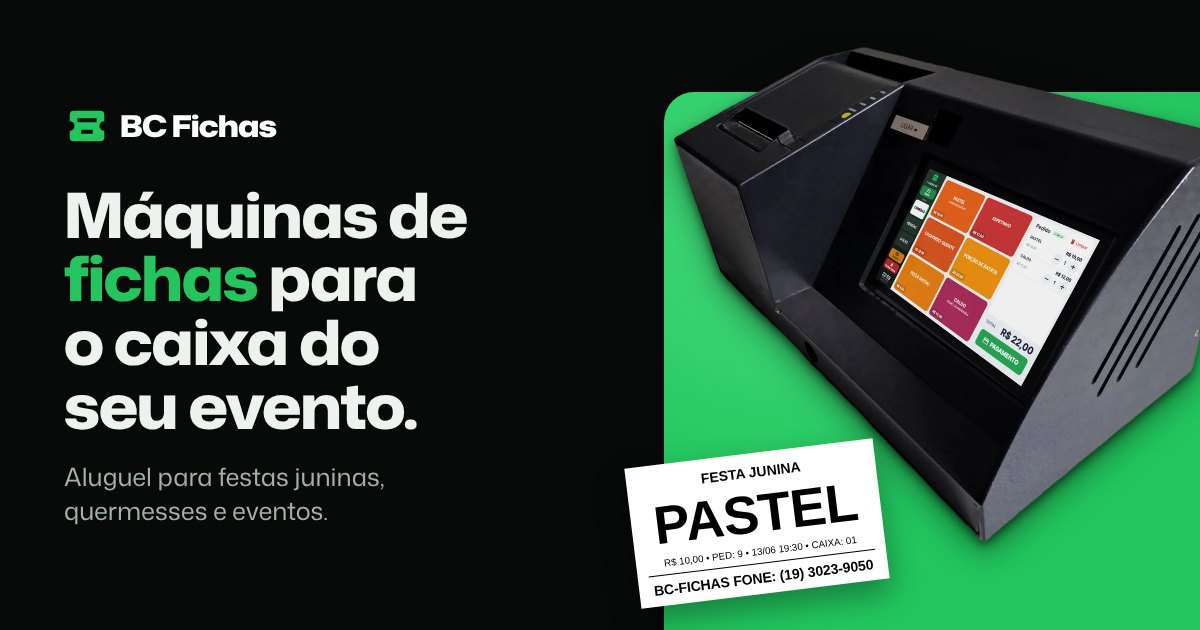
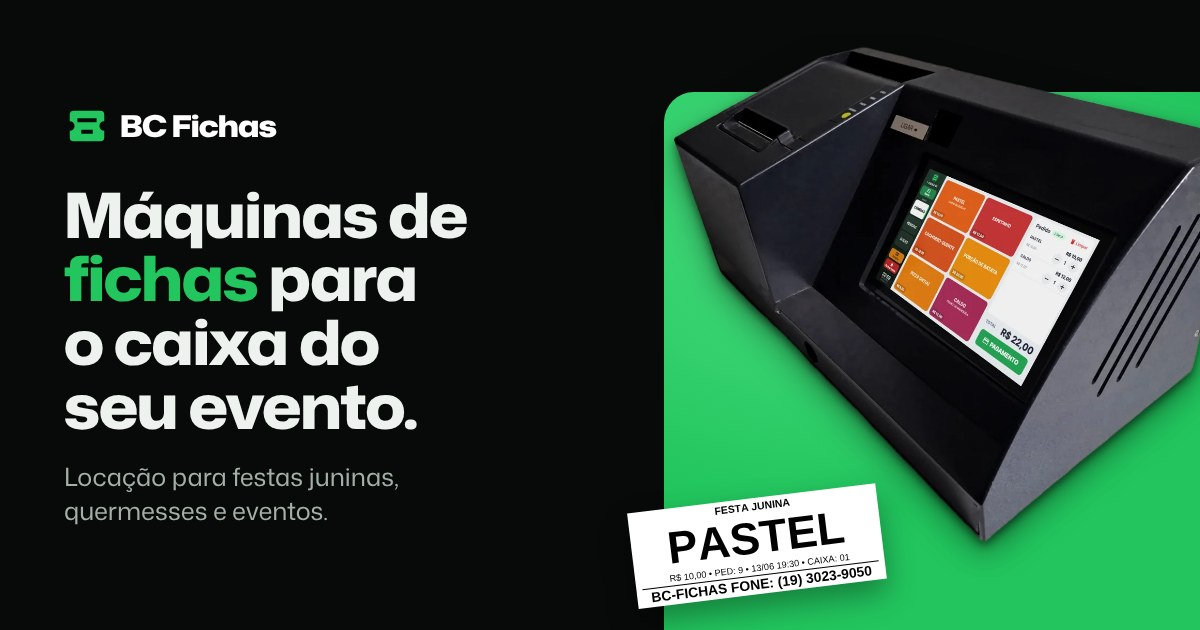
"Locação" nos títulos, tira de fichas inteira e preparo para a indexação
Pedidos do responsável (23/11/2026).

Textos
- "Locação" no título da página, na abertura, nas dúvidas, no rodapé e
  na imagem de compartilhamento. O verbo "alugar" continua nas frases
  e "aluguel" fica na descrição lida pelo Google.

Como usar no evento
- As 3 fichas do passo "As fichas saem na hora" aparecem inteiras
  dentro do quadro (antes a tira saía cortada).

Indexação
- Título com a busca principal na frente, descrição com "locação" e
  "aluguel", liberação de imagem grande nos resultados.
- Dados estruturados: página, serviço (com nome alternativo), empresa
  com telefone, endereço e horário, e dúvidas.
- Sitemap com as imagens principais; texto alternativo na imagem de
  compartilhamento.
- docs/PUBLICAR-NA-VERCEL.md, item 4: o que fazer no Google depois que
  o endereço oficial abrir.

Testes: 140 verificações, Lighthouse SEO 100 (docs/TESTES.md).

Claude-Session: https://claude.ai/code/session_01Jb1gVohqprNRxVwLM3BG3P

Changed region(s): [[0.5242, 0.6937, 0.74, 0.9651], [0.0617, 0.7238, 0.3392, 0.7841]]

diff --git a/site/index.html b/site/index.html
@@ -3,8 +3,9 @@
 <head>
 <meta charset="utf-8">
 <meta name="viewport" content="width=device-width, initial-scale=1, viewport-fit=cover">
-<title>BC Fichas | Aluguel de máquinas de fichas para festas e eventos</title>
-<meta name="description" content="Aluguel de máquinas de fichas para festas juninas, quermesses e eventos. O caixa registra a venda e imprime as fichas na hora, com o nome do seu evento. Solicite o orçamento pelo WhatsApp.">
+<title>Locação de máquinas de fichas para festas e eventos | BC Fichas</title>
+<meta name="description" content="Locação de máquinas de fichas para festas juninas, quermesses e eventos. Aluguel com a máquina já programada e fichas impressas na hora. Orçamento pelo WhatsApp.">
+<meta name="robots" content="index, follow, max-image-preview:large, max-snippet:-1">
 <link rel="canonical" href="https://bcfichas.balancass.com/">
 <meta name="theme-color" content="#070A08">
 <meta name="format-detection" content="telephone=no">
@@ -12,12 +13,14 @@
 <meta property="og:type" content="website">
 <meta property="og:locale" content="pt_BR">
 <meta property="og:site_name" content="BC Fichas">
-<meta property="og:title" content="BC Fichas | Máquinas de fichas para o caixa do seu evento">
-<meta property="og:description" content="Aluguel para festas juninas, quermesses e eventos. As fichas saem impressas na hora, com o nome do seu evento.">
+<meta property="og:title" content="BC Fichas | Locação de máquinas de fichas para eventos">
+<meta property="og:description" content="Locação para festas juninas, quermesses e eventos. As fichas saem impressas na hora, com o nome do seu evento.">
 <meta property="og:url" content="https://bcfichas.balancass.com/">
-<meta property="og:image" content="https://bcfichas.balancass.com/img/compartilhar.jpg">
+<meta property="og:image" content="https://bcfichas.balancass.com/img/compartilhar.jpg?v=2">
+<meta property="og:image:type" content="image/jpeg">
 <meta property="og:image:width" content="1200">
 <meta property="og:image:height" content="630">
+<meta property="og:image:alt" content="Máquina de fichas BC Fichas com a tela de venda e uma ficha impressa.">
 <meta name="twitter:card" content="summary_large_image">
 
 <link rel="icon" href="favicon.ico" sizes="32x32">
@@ -29,7 +32,7 @@
 <link rel="preload" as="image" type="image/webp" fetchpriority="high"
       imagesrcset="img/maquina/maquina-frente-520.webp?v=2 520w, img/maquina/maquina-frente-800.webp?v=2 800w, img/maquina/maquina-frente-1200.webp?v=2 1200w"
       imagesizes="(min-width: 1000px) 50vw, 92vw">
-<link rel="stylesheet" href="css/site.css?v=7">
+<link rel="stylesheet" href="css/site.css?v=8">
 <noscript><style>:root { --f-ficha: "Ficha", Arial, "Liberation Sans", "Helvetica Neue", Helvetica, sans-serif; }</style></noscript>
 
 <script type="application/ld+json">
@@ -41,37 +44,71 @@
       "@id": "https://bcfichas.balancass.com/#site",
       "name": "BC Fichas",
       "url": "https://bcfichas.balancass.com/",
-      "inLanguage": "pt-BR"
+      "description": "Locação de máquinas de fichas para festas juninas, quermesses e eventos.",
+      "inLanguage": "pt-BR",
+      "publisher": { "@id": "https://bcfichas.balancass.com/#empresa" }
+    },
+    {
+      "@type": "WebPage",
+      "@id": "https://bcfichas.balancass.com/#pagina",
+      "url": "https://bcfichas.balancass.com/",
+      "name": "Locação de máquinas de fichas para festas e eventos | BC Fichas",
+      "description": "Locação de máquinas de fichas para festas juninas, quermesses e eventos. Aluguel com a máquina já programada e fichas impressas na hora. Orçamento pelo WhatsApp.",
+      "inLanguage": "pt-BR",
+      "isPartOf": { "@id": "https://bcfichas.balancass.com/#site" },
+      "about": { "@id": "https://bcfichas.balancass.com/#servico" },
+      "primaryImageOfPage": {
+        "@type": "ImageObject",
+        "url": "https://bcfichas.balancass.com/img/compartilhar.jpg?v=2",
+        "width": 1200,
+        "height": 630
+      },
+      "dateModified": "2026-11-23"
     },
     {
       "@type": "Service",
       "@id": "https://bcfichas.balancass.com/#servico",
-      "name": "BC Fichas: aluguel de máquinas de fichas para eventos",
-      "serviceType": "Aluguel de máquinas de fichas",
-      "description": "Aluguel de máquinas de fichas para festas juninas, quermesses e eventos. A máquina vai programada com os produtos, os preços e o logotipo do evento. O treinamento é dado na empresa e as bobinas são consignadas.",
+      "name": "BC Fichas: locação de máquinas de fichas para eventos",
+      "alternateName": "Aluguel de máquinas de fichas para festas e eventos",
+      "serviceType": "Locação de máquinas de fichas",
+      "category": "Locação de equipamentos para eventos",
+      "description": "Locação de máquinas de fichas para festas juninas, quermesses e eventos. A máquina vai programada com os produtos, os preços e o logotipo do evento. O treinamento é dado na empresa e as bobinas são consignadas.",
       "url": "https://bcfichas.balancass.com/",
-      "image": "https://bcfichas.balancass.com/img/compartilhar.jpg",
-      "provider": {
-        "@type": "LocalBusiness",
-        "name": "Balanças.com — Automação Comercial",
-        "url": "https://balancass.com/",
-        "telephone": "+55-19-3023-9050",
-        "address": {
-          "@type": "PostalAddress",
-          "streetAddress": "Rua 13, 650 – Boa Morte",
-          "addressLocality": "Rio Claro",
-          "addressRegion": "SP",
-          "postalCode": "13500-120",
-          "addressCountry": "BR"
-        }
-      }
+      "image": "https://bcfichas.balancass.com/img/compartilhar.jpg?v=2",
+      "brand": { "@type": "Brand", "name": "BC Fichas" },
+      "provider": { "@id": "https://bcfichas.balancass.com/#empresa" }
+    },
+    {
+      "@type": "LocalBusiness",
+      "@id": "https://bcfichas.balancass.com/#empresa",
+      "name": "Balanças.com — Automação Comercial",
+      "legalName": "Fabio de Godoy Lima Ltda",
+      "taxID": "12.403.843/0001-18",
+      "url": "https://balancass.com/",
+      "image": "https://bcfichas.balancass.com/img/compartilhar.jpg?v=2",
+      "telephone": "+55-19-3023-9050",
+      "address": {
+        "@type": "PostalAddress",
+        "streetAddress": "Rua 13, 650 – Boa Morte",
+        "addressLocality": "Rio Claro",
+        "addressRegion": "SP",
+        "postalCode": "13500-120",
+        "addressCountry": "BR"
+      },
+      "openingHoursSpecification": [
+        { "@type": "OpeningHoursSpecification", "dayOfWeek": ["Monday", "Tuesday", "Wednesday", "Thursday", "Friday"], "opens": "08:00", "closes": "11:00" },
+        { "@type": "OpeningHoursSpecification", "dayOfWeek": ["Monday", "Tuesday", "Wednesday", "Thursday", "Friday"], "opens": "13:00", "closes": "18:00" },
+        { "@type": "OpeningHoursSpecification", "dayOfWeek": "Saturday", "opens": "08:00", "closes": "12:00" }
+      ]
     },
     {
       "@type": "FAQPage",
+      "@id": "https://bcfichas.balancass.com/#duvidas",
+      "isPartOf": { "@id": "https://bcfichas.balancass.com/#pagina" },
       "mainEntity": [
         {
           "@type": "Question",
-          "name": "Como funciona o aluguel?",
+          "name": "Como funciona a locação?",
           "acceptedAnswer": { "@type": "Answer", "text": "Você informa a cidade, a data e como é o evento, e recebe a proposta pelo WhatsApp. Com o orçamento aprovado, envia o cardápio com os preços, o logotipo e a frase do rodapé com pelo menos uma semana de antecedência. A máquina já vai programada." }
         },
         {
@@ -174,7 +211,7 @@
 <section class="heroi" id="inicio" aria-labelledby="t-inicio">
   <div class="miolo heroi__grade">
     <div class="heroi__texto">
-      <p class="rotulo">Aluguel para festas e eventos</p>
+      <p class="rotulo">Locação para festas e eventos</p>
       <h1 id="t-inicio">Máquinas de <span class="realce">fichas</span> para o caixa do seu evento.</h1>
       <p class="lide">Organize as vendas do evento com fichas impressas na hora e relatórios por caixa.</p>
       <div class="acoes">
@@ -658,16 +695,16 @@
   <div class="miolo duvidas">
     <header class="cabeca">
       <p class="rotulo">Dúvidas</p>
-      <h2 id="t-duvidas">Dúvidas sobre o aluguel.</h2>
+      <h2 id="t-duvidas">Dúvidas sobre a locação.</h2>
       <p class="lide">Não achou a resposta? <a data-zap href="https://wa.me/551930239050?text=Ol%C3%A1!%20Vim%20pelo%20site%20do%20BC%20Fichas%20e%20tenho%20uma%20d%C3%BAvida." data-zap-texto="Olá! Vim pelo site do BC Fichas e tenho uma dúvida." target="_blank" rel="noopener">Pergunte pelo WhatsApp</a>.</p>
     </header>
 
     <div class="duvidas__grupos">
       <div class="duvidas__grupo">
-        <h3>Aluguel</h3>
+        <h3>Locação</h3>
         <div class="duvidas__lista">
           <details class="duvida">
-            <summary><h4>Como funciona o aluguel?</h4><svg class="i" aria-hidden="true"><use href="#i-mais"/></svg></summary>
+            <summary><h4>Como funciona a locação?</h4><svg class="i" aria-hidden="true"><use href="#i-mais"/></svg></summary>
             <p>Você informa a cidade, a data e como é o evento, e recebe a proposta pelo WhatsApp. Com o orçamento aprovado, envia o cardápio com os preços, o logotipo e a frase do rodapé com pelo menos uma semana de antecedência. A máquina já vai programada.</p>
           </details>
           <details class="duvida">
@@ -842,7 +879,7 @@
         <svg class="marca__simbolo" aria-hidden="true"><use href="#i-ficha"/></svg>
         <span class="marca__nome">BC Fichas</span>
       </a>
-      <p>Aluguel de máquinas de fichas para festas juninas, quermesses e eventos.</p>
+      <p>Locação de máquinas de fichas para festas juninas, quermesses e eventos.</p>
     </div>
     <nav class="rodape__nav" aria-label="Rodapé">
       <a href="#como-alugar">Como alugar</a>

diff --git a/site/css/site.css b/site/css/site.css
@@ -402,12 +402,8 @@ p { text-wrap: pretty; }
 }
 .passo__img--tela img { width: 88%; border-radius: 6px; box-shadow: 0 14px 34px rgba(0, 0, 0, 0.55), 0 0 0 1px rgba(255, 255, 255, 0.06); transition: scale .3s ease; }
 a.passo__img:hover img { scale: 1.03; }
-.passo__img--tira::after {
-  content: ""; position: absolute; inset: auto 0 0; height: 34%;
-  background: linear-gradient(to bottom, rgba(10, 15, 12, 0), #0a0f0c 92%);
-}
-.passo__img--tira { place-items: start center; }
-.tira { width: 56%; margin-top: -10%; rotate: -2.5deg; filter: drop-shadow(0 18px 30px rgba(0, 0, 0, 0.5)); }
+/* a tira de fichas aparece inteira dentro do quadro, sem corte */
+.tira { width: 47%; rotate: -2.5deg; filter: drop-shadow(0 12px 22px rgba(0, 0, 0, 0.5)); }
 .tira .ficha + .ficha { border-top: 2px dashed #9aa39c; }
 .passo__texto {
   display: grid; grid-template-columns: auto minmax(0, 1fr); gap: 10px 12px; align-items: center; align-content: start;

diff --git a/site/404.html b/site/404.html
@@ -9,7 +9,7 @@
 <link rel="icon" href="/favicon.ico" sizes="32x32">
 <link rel="icon" href="/img/icone.svg" type="image/svg+xml">
 <link rel="preload" href="/fonts/mona-sans-latin.woff2" as="font" type="font/woff2" crossorigin>
-<link rel="stylesheet" href="/css/site.css?v=7">
+<link rel="stylesheet" href="/css/site.css?v=8">
 <style>
   .perdida { min-height: 100vh; min-height: 100svh; display: grid; place-items: center; padding-block: 48px; }
   .perdida__c { display: grid; gap: 28px; justify-items: center; text-align: center; }

diff --git a/docs/PENDENCIAS.md b/docs/PENDENCIAS.md
@@ -1,6 +1,6 @@
 # Pendências
 
-Situação em 22/11/2026, depois da segunda avaliação do site (`BC_Fichas_Reavaliacao_e_Guia_2026-11-22.md`). O briefing usado foi o texto do pedido; além dele chegaram as fotos e as duas avaliações.
+Situação em 23/11/2026, depois da segunda avaliação do site (`BC_Fichas_Reavaliacao_e_Guia_2026-11-22.md`). O briefing usado foi o texto do pedido; além dele chegaram as fotos e as duas avaliações.
 
 ## 1. Para responder
 
@@ -14,8 +14,6 @@ Perguntas que a avaliação levantou e que só a empresa pode responder. Sem res
 | 4 | **Painel no celular e maquininha integrada** | Ficaram de fora (versões "Rede" e "Cartão" do sistema). | Já são oferecidos no aluguel? Se sim, entram no site. |
 | 5 | **Frase de apoio da abertura** | "Organize as vendas do evento com fichas impressas na hora e relatórios por caixa." (sugestão da avaliação de 22/11) | Em 20/11 o responsável pediu para tirar a frase que havia nesse lugar. Esta é outra frase, mais curta; se preferir a abertura sem frase, é só avisar. |
 
-| 6 | **"Aluguel" ou "locação"** | O site fala em "aluguel" (decisão de 19/11). | Em 22/11 o responsável sugeriu "alocação" para soar mais profissional. "Alocação" quer dizer outra coisa (distribuir, destinar recursos); o termo formal para alugar equipamento é **"locação"**. Falta decidir entre manter "aluguel" ou passar para "locação" nos títulos. |
-
 A avaliação também pediu respostas sobre **retirada, entrega e devolução** e sobre **como o período do aluguel é calculado**. O responsável já decidiu, em 19/11, não publicar isso ("depende do lugar; na dúvida não precisa pôr"), então o site continua só com "consulte a disponibilidade". Se mudar de ideia, cabem em duas dúvidas curtas.
 
 ## 2. Publicação
@@ -23,9 +21,9 @@ A avaliação também pediu respostas sobre **retirada, entrega e devolução** 
 - [ ] **Criar o CNAME de `bcfichas.balancass.com`.** Conferido em 22/11: o nome não existe no DNS (NXDOMAIN). A zona `balancass.com` está na HostGator, então o registro é criado no cPanel de lá (Editor de Zona), com o valor que a Vercel mostra em Settings → Domains. Passo a passo: `docs/PUBLICAR-NA-VERCEL.md`, item 2. Enquanto isso o site funciona em `bcfichas.vercel.app`, mas a imagem de compartilhamento e o endereço indicado ao Google apontam para o oficial.
 - [ ] **Imprimir uma ficha de teste** com um nome de 40 caracteres e um rodapé de duas linhas e comparar com a prévia do site (a prévia segue o código do sistema, mas não foi comparada com o papel).
 - [ ] Testar num celular real: carrossel das fichas, escolha do modelo, formulário e abertura do WhatsApp.
+- [ ] **Indexação no Google**, depois que o endereço oficial abrir: redirecionar o endereço provisório para o oficial, verificar o site no Google Search Console, enviar o `sitemap.xml` e pedir a indexação. Passo a passo: `docs/PUBLICAR-NA-VERCEL.md`, item 4. O que dependia do site já está feito (título, descrição, dados da empresa, sitemap com imagens).
 - [ ] Com o endereço oficial no ar, enviar o link numa conversa de WhatsApp e ver se a imagem aparece.
-- [ ] Enviar o `sitemap.xml` no Google Search Console.
-- [ ] **Site da Balanças.com:** a seção do BC Fichas ainda diz "Locação por diária" e "Manual e bobinas inclusos", e os links apontam para `bcfichas.com.br` (fora do ar). Vale alinhar com o que foi confirmado aqui.
+- [ ] **Site da Balanças.com:** a seção do BC Fichas ainda diz "Locação por diária" e "Manual e bobinas inclusos", e os links apontam para `bcfichas.com.br` (fora do ar). Trocar o link para `https://bcfichas.balancass.com/` é o que mais ajuda o Google a achar o site novo; vale também alinhar os textos com o que foi confirmado aqui.
 
 ## 3. Depende de material novo
 
@@ -42,7 +40,7 @@ Itens da avaliação de 22/11 que não foram feitos porque precisam de material 
 
 | Assunto | Resposta | Onde aparece |
 |---|---|---|
-| Nome do serviço | "Aluguel", sem dizer "por diária" | Título da página, abertura, dúvidas, rodapé e imagem de compartilhamento |
+| Nome do serviço | "Locação" nos títulos, sem dizer "por diária" (decisão de 23/11; antes era "aluguel"). O verbo "alugar" continua nas frases ("Como alugar", "quem aluga") e "aluguel" aparece na descrição que o Google lê, para o site ser achado nas duas buscas. "Alocação" não foi usada: quer dizer outra coisa. | Título da página, abertura, dúvidas, rodapé e imagem de compartilhamento |
 | Entrega e retirada | Depende do lugar; não entra no site | Só "consulte a disponibilidade", nas dúvidas |
 | Bobinas | Consignadas: o cliente só paga as que usar | Abertura ("você paga só as que usar") e "O que está incluído?" |
 | Treinamento | Dado na empresa | Abertura e dúvidas |
@@ -59,6 +57,7 @@ Itens da avaliação de 22/11 que não foram feitos porque precisam de material 
 | Textos retirados em 20/11 | Frase de apoio da abertura (ver item 5 acima), estimativa de público, "o teclado aparece na tela", aviso sobre as fotos e a dúvida sobre devolução de fichas | Não aparecem mais |
 | Fotos retiradas em 20/11 | Impressora aberta e saída das fichas | Não aparecem mais |
 | Contato direto | Falar no WhatsApp sem passar pelo formulário | Cabeçalho, abertura, barra do celular, menu e seção de orçamento |
+| Tira de fichas do passo 3 | Mostrar inteira, sem corte (pedido de 23/11) | "Como usar no evento", passo "As fichas saem na hora" |
 | Retirado em 22/11 | Campo "Tipo de evento" do formulário e a linha de WhatsApp da lista de contatos (ficava repetida: já existe o botão "Falar no WhatsApp" logo acima; embaixo fica só o telefone) | Não aparecem mais |
 | Logotipo | Manter o símbolo da ficha com o nome | Cabeçalho, rodapé e ícones |
 | Horário e endereço | Os da Balanças.com valem | Seção de orçamento |

diff --git a/docs/PUBLICAR-NA-VERCEL.md b/docs/PUBLICAR-NA-VERCEL.md
@@ -38,9 +38,33 @@ Se o DNS do domínio não estiver na HostGator (Cloudflare, Registro.br), o regi
 - [ ] Na seção das fichas, escreva o nome de um evento: as fichas mudam.
 - [ ] Um endereço que não existe (ex.: `/teste`) mostra a página **"Esta página não existe"**.
 - [ ] Mande o link do site para alguém no WhatsApp: aparece a imagem com a máquina e o título.
-- [ ] (Recomendado) **Google Search Console** → adicionar `bcfichas.balancass.com` → *Sitemaps* → enviar `sitemap.xml`.
+- [ ] Siga o item 4, abaixo, para o site aparecer no Google.
 
-## 4. Atualizar o site
+## 4. Aparecer no Google (indexação)
+
+**O que já está pronto no site:** título e descrição com "locação" e "aluguel" (as duas buscas), o endereço oficial indicado ao Google, os dados da empresa (telefone, endereço e horário) em formato que o Google lê, o `sitemap.xml` com a página e as imagens principais, o `robots.txt` liberando tudo, imagens com descrição e página leve no celular.
+
+**O que só dá para fazer depois que `bcfichas.balancass.com` abrir** (depende das suas contas):
+
+1. **Mandar o endereço provisório para o oficial.** Enquanto os dois abrirem o mesmo site, o Google pode ficar em dúvida sobre qual mostrar. Com o oficial funcionando, `bcfichas.vercel.app` deve redirecionar para ele. Há dois jeitos: avisar para ativarmos o redirecionamento no `vercel.json`, ou, na Vercel, **Settings → Domains → Edit** em `bcfichas.vercel.app` → **Redirect to** `bcfichas.balancass.com`. Não faça isso antes de o oficial abrir, senão o site sai do ar.
+2. **Google Search Console** (`search.google.com/search-console`):
+   - se o `balancass.com` já está lá como propriedade de **domínio**, o `bcfichas.balancass.com` já está incluído; pule para o envio do sitemap;
+   - se não, **Adicionar propriedade → Prefixo do URL →** `https://bcfichas.balancass.com/`. Na verificação, escolha **Tag HTML**: o Google mostra uma linha `<meta name="google-site-verification" ...>`. Envie essa linha para ser colocada no site (ou cole no `<head>` do `site/index.html`) e clique em **Verificar**;
+   - em **Sitemaps**, envie `sitemap.xml`;
+   - em **Inspeção de URL**, cole `https://bcfichas.balancass.com/` e clique em **Solicitar indexação**.
+3. **Link no site da Balanças.com.** É o que mais acelera: o Google já conhece o `balancass.com`, e um link de lá leva o robô até o site novo. Hoje a seção do BC Fichas de lá aponta para `bcfichas.com.br`, que está fora do ar; troque para `https://bcfichas.balancass.com/`.
+4. **Perfil da Empresa no Google** (o cartão da Balanças.com no Google Maps), se houver: acrescente "Locação de máquinas de fichas" nos serviços, com o link do site.
+5. (Opcional) **Bing Webmaster Tools** (`bing.com/webmasters`): dá para importar tudo do Search Console em um clique.
+
+**Para conferir depois:**
+
+- alguns dias depois, pesquise `site:bcfichas.balancass.com` no Google: a página deve aparecer;
+- em `search.google.com/test/rich-results`, cole o endereço: os dados da empresa e do serviço devem aparecer sem erro;
+- mande o link numa conversa de WhatsApp: aparece a imagem com a máquina e "Locação para festas juninas, quermesses e eventos".
+
+A entrada no Google costuma levar de alguns dias a algumas semanas. A posição nas buscas depende da concorrência e do tempo de vida do site; não há como garantir primeiro lugar.
+
+## 5. Atualizar o site
 
 Toda mudança enviada ao GitHub no ramo de produção vai para o ar sozinha, em cerca de um minuto. Mudanças em outros ramos ganham um endereço de prévia, sem mexer no site publicado.
 
@@ -50,7 +74,7 @@ Antes de enviar, rode:
 python3 ferramentas/conferir.py
 ```
 
-**Cache.** As fotos ficam guardadas no navegador do visitante por 30 dias. Se trocar uma foto mantendo o mesmo nome de arquivo, mude o nome (ou acrescente `?v=2` no `index.html`). O mesmo vale para `site.css` e `site.js`: aumente o número do `?v=4`.
+**Cache.** As fotos ficam guardadas no navegador do visitante por 30 dias. Se trocar uma foto mantendo o mesmo nome de arquivo, mude o nome (ou acrescente `?v=2` no `index.html`). O mesmo vale para `site.css` e `site.js`: aumente o número que vem depois de `?v=`.
 
 ## Plano B: cPanel
 

diff --git a/README.md b/README.md
@@ -1,6 +1,6 @@
 # Site do BC Fichas
 
-Site de uma página do **BC Fichas**: aluguel de máquinas de fichas para festas juninas, quermesses e eventos.
+Site de uma página do **BC Fichas**: locação (aluguel) de máquinas de fichas para festas juninas, quermesses e eventos.
 O objetivo é o organizador entender o serviço e pedir o orçamento pelo WhatsApp.
 
 Endereço previsto: **https://bcfichas.balancass.com**
@@ -70,7 +70,7 @@ As perguntas e respostas também estão repetidas no bloco `application/ld+json`
 
 **Fotos da máquina.** Ponha a foto nova em `materiais/fotos-originais/`, ajuste a lista `FOTOS` em `ferramentas/processar-fotos.py` e rode o script. Ele recorta o fundo, apaga etiquetas marcadas, limpa poeira e riscos, monta a tela do sistema no visor e grava os arquivos em `site/img/maquina/`. As instruções estão no começo do script.
 
-**Depois de mudar o CSS ou o JavaScript**, aumente o número que vem depois de `?v=` (hoje `site.css?v=7` e `site.js?v=6`) nas linhas de `site.css` e `site.js` do `index.html` e do `404.html`, para o navegador de quem já visitou buscar a versão nova.
+**Depois de mudar o CSS ou o JavaScript**, aumente o número que vem depois de `?v=` (hoje `site.css?v=8` e `site.js?v=6`) nas linhas de `site.css` e `site.js` do `index.html` e do `404.html`, para o navegador de quem já visitou buscar a versão nova.
 
 ## Como as imagens foram feitas
 
@@ -82,7 +82,7 @@ As perguntas e respostas também estão repetidas no bloco `application/ld+json`
 
 Só entrou no site o que está confirmado nos materiais do projeto:
 
-- textos do BC Fichas já publicados no site da Balanças.com (fichas com logo, combos, relatórios e sangrias). O que lá aparece como "locação por diária" e "bobinas inclusas" foi corrigido pelo responsável: o site fala em aluguel e em bobinas consignadas;
+- textos do BC Fichas já publicados no site da Balanças.com (fichas com logo, combos, relatórios e sangrias). O que lá aparece como "locação por diária" e "bobinas inclusas" foi corrigido pelo responsável: o site fala em locação (sem "por diária") e em bobinas consignadas;
 - o README do sistema BC Fichas 3.11.7 (formas de pagamento, modelos de ficha, controle de caixa, senha, estoque, devolução) e o código (funciona sem internet);
 - os dados da empresa do site da Balanças.com (telefone, endereço, horário, razão social e CNPJ).
 - as respostas do responsável em 19 e 20/11/2026 (lista completa em `docs/PENDENCIAS.md`, item 4);
